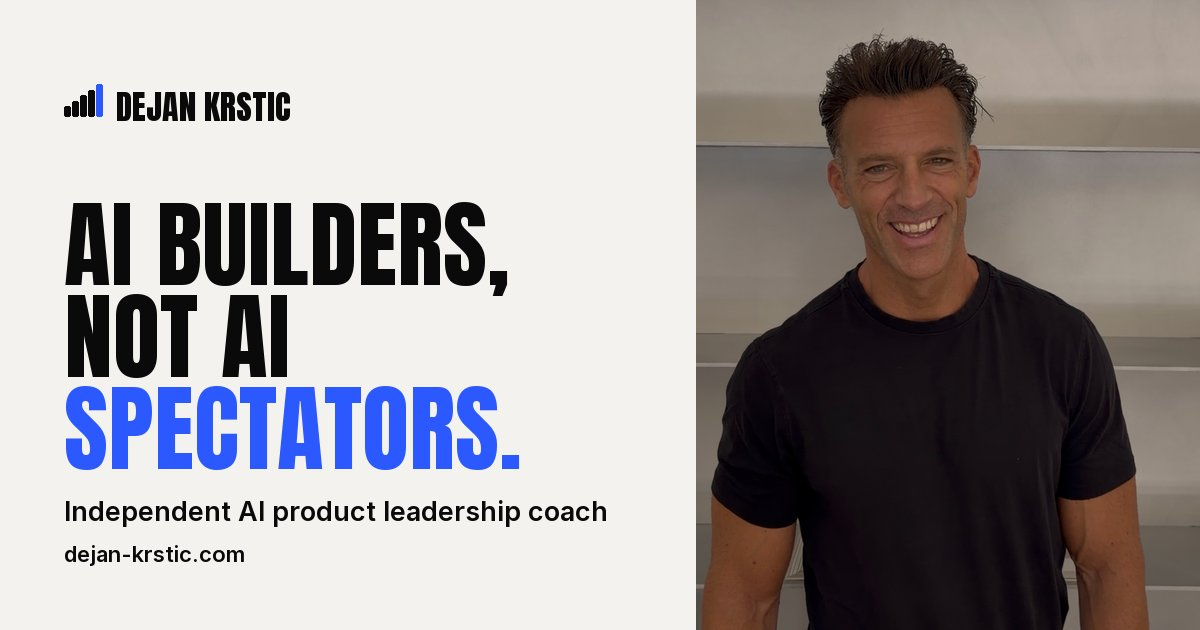
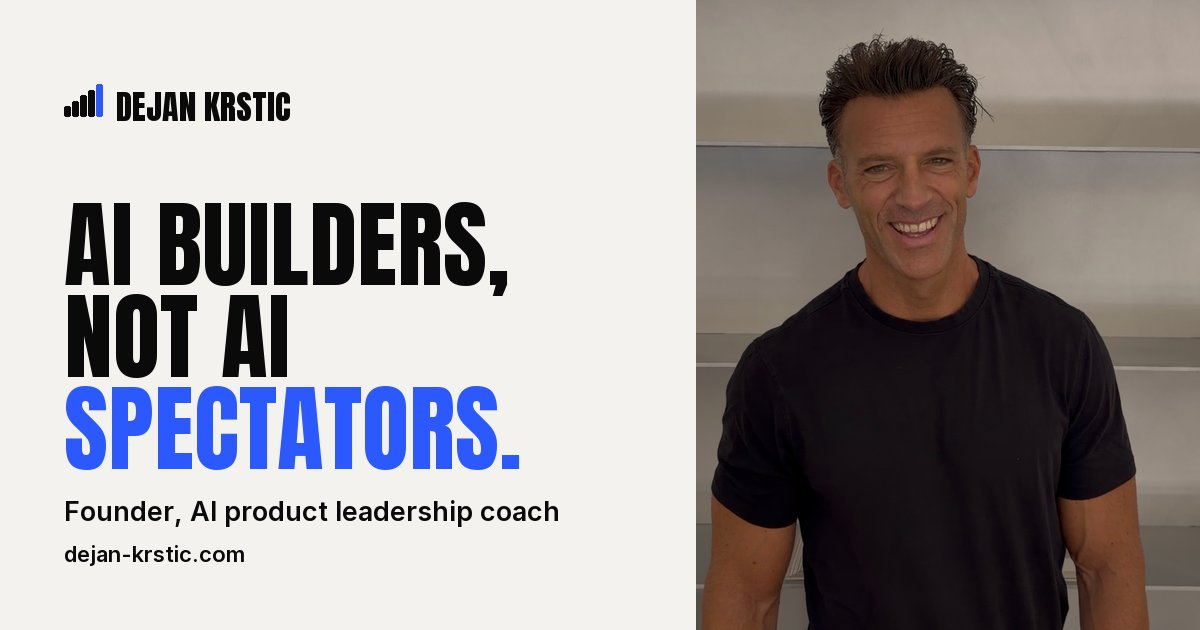
20+ years and Founder title
- YEARS is now "20+" (home credentials line, About story, career heading, About meta).
- "Independent" as a title replaced with "Founder, AI product leadership coach" in the home
  hero eyebrow, home and About meta descriptions, index.html description and og:description.
- About timeline top entry: "Dejan Krstic", "Founder, AI product leadership coach, from 2027".
- Share card re-exported with "Founder, AI product leadership coach" (it had no "16+").

Changed region(s): [[0.0617, 0.7841, 0.5242, 0.8444]]

diff --git a/index.html b/index.html
@@ -4,12 +4,12 @@
     <meta charset="UTF-8" />
     <meta name="viewport" content="width=device-width, initial-scale=1.0" />
     <title>AI builders, not AI spectators | Dejan Krstic</title>
-    <meta name="description" content="Dejan Krstic, independent AI product leadership coach. I take people and product teams from first steps to AI-native, one stage at a time, on their own work." />
+    <meta name="description" content="Dejan Krstic, Founder, AI product leadership coach. I take people and product teams from first steps to AI-native, one stage at a time, on their own work." />
     <meta name="author" content="Dejan Krstic" />
     <meta name="theme-color" content="#f3f2ef" />
 
     <meta property="og:title" content="Dejan Krstic | AI builders, not AI spectators" />
-    <meta property="og:description" content="Independent AI product leadership coach. From first steps to AI-native, one stage at a time, on your own work." />
+    <meta property="og:description" content="Founder, AI product leadership coach. From first steps to AI-native, one stage at a time, on your own work." />
     <meta property="og:type" content="website" />
     <meta property="og:url" content="https://www.dejan-krstic.com/" />
     <!-- Share card: brand text left, portrait right. Absolute URL, so it resolves once this branch is live. -->

diff --git a/src/pages/Index.tsx b/src/pages/Index.tsx
@@ -21,7 +21,7 @@ const HOME_PACKAGES = ["coaching", "diagnostic", "workshops", "builder-program"]
 const Index = () => {
   usePageTitle(
     "AI builders, not AI spectators",
-    "Dejan Krstic, independent AI product leadership coach. I take people and product teams from first steps to AI-native, one stage at a time, on their own work.",
+    "Dejan Krstic, Founder, AI product leadership coach. I take people and product teams from first steps to AI-native, one stage at a time, on their own work.",
   );
   // Links like /?for=team&stage=3#path open the path at that stage.
   const [params] = useSearchParams();
@@ -41,7 +41,7 @@ const Index = () => {
         <div className="container px-4 md:px-6">
           <div className="grid items-end gap-12 lg:grid-cols-[1.15fr_1fr]">
             <div className="animate-fade-in">
-              <Eyebrow>Independent AI product leadership coach</Eyebrow>
+              <Eyebrow>Founder, AI product leadership coach</Eyebrow>
               <h1 className="mt-5 font-display text-[clamp(3.1rem,11vw,8.4rem)] text-ink lg:text-[clamp(4rem,6.8vw,7rem)]">
                 AI builders,
                 <br />

diff --git a/src/pages/About.tsx b/src/pages/About.tsx
@@ -8,7 +8,7 @@ import { usePageTitle } from "@/hooks/use-page-title";
 import { YEARS } from "@/lib/links";
 
 const CAREER = [
-  { org: "Independent", role: "AI product leadership coach, from 2027", now: true },
+  { org: "Dejan Krstic", role: "Founder, AI product leadership coach, from 2027", now: true },
   { org: "Product School", role: "Ex-CPO, 2026. Instructor and speaker before that." },
   { org: "Spotify", role: "Group Product Manager, Creator and Enterprise Payouts, until 2026" },
   { org: "SoundCloud", role: "Lead Product Manager, Insights and Royalties" },
@@ -25,7 +25,7 @@ const BMG = {
 const About = () => {
   usePageTitle(
     "About",
-    `Dejan Krstic: ${YEARS} years building products at Spotify, SoundCloud and BMG, Ex-CPO of Product School, now an independent AI product leadership coach.`,
+    `Dejan Krstic: ${YEARS} years building products at Spotify, SoundCloud and BMG, Ex-CPO of Product School. Founder, AI product leadership coach.`,
   );
 
   return (

diff --git a/src/lib/links.ts b/src/lib/links.ts
@@ -14,4 +14,4 @@ export const LINKEDIN_URL = "https://www.linkedin.com/in/dejan-krstic-b4a7a98a/"
 export const CONTACT_EMAIL = LEGAL.email;
 
 // The one experience figure used everywhere on the site.
-export const YEARS = "16+";
+export const YEARS = "20+";
